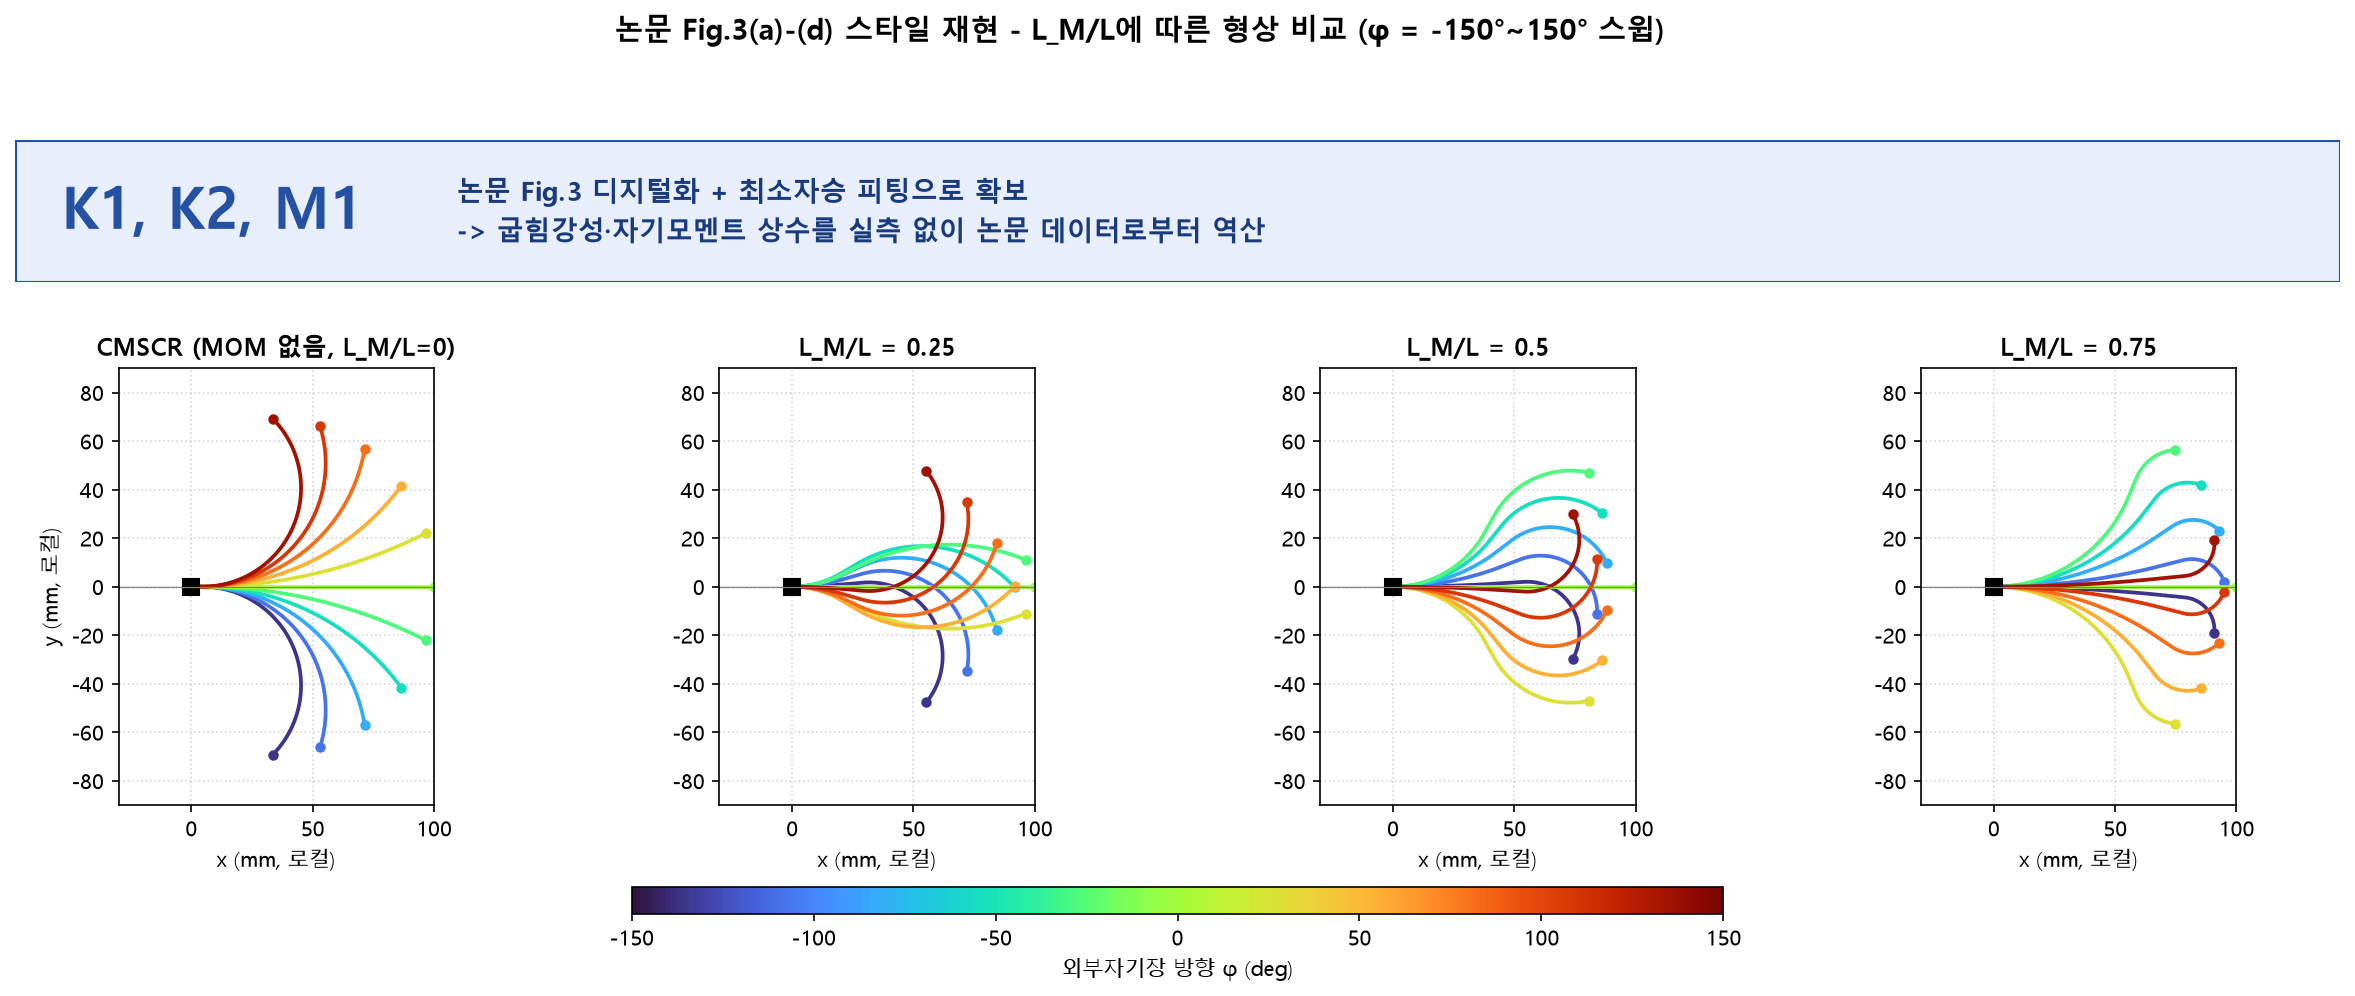
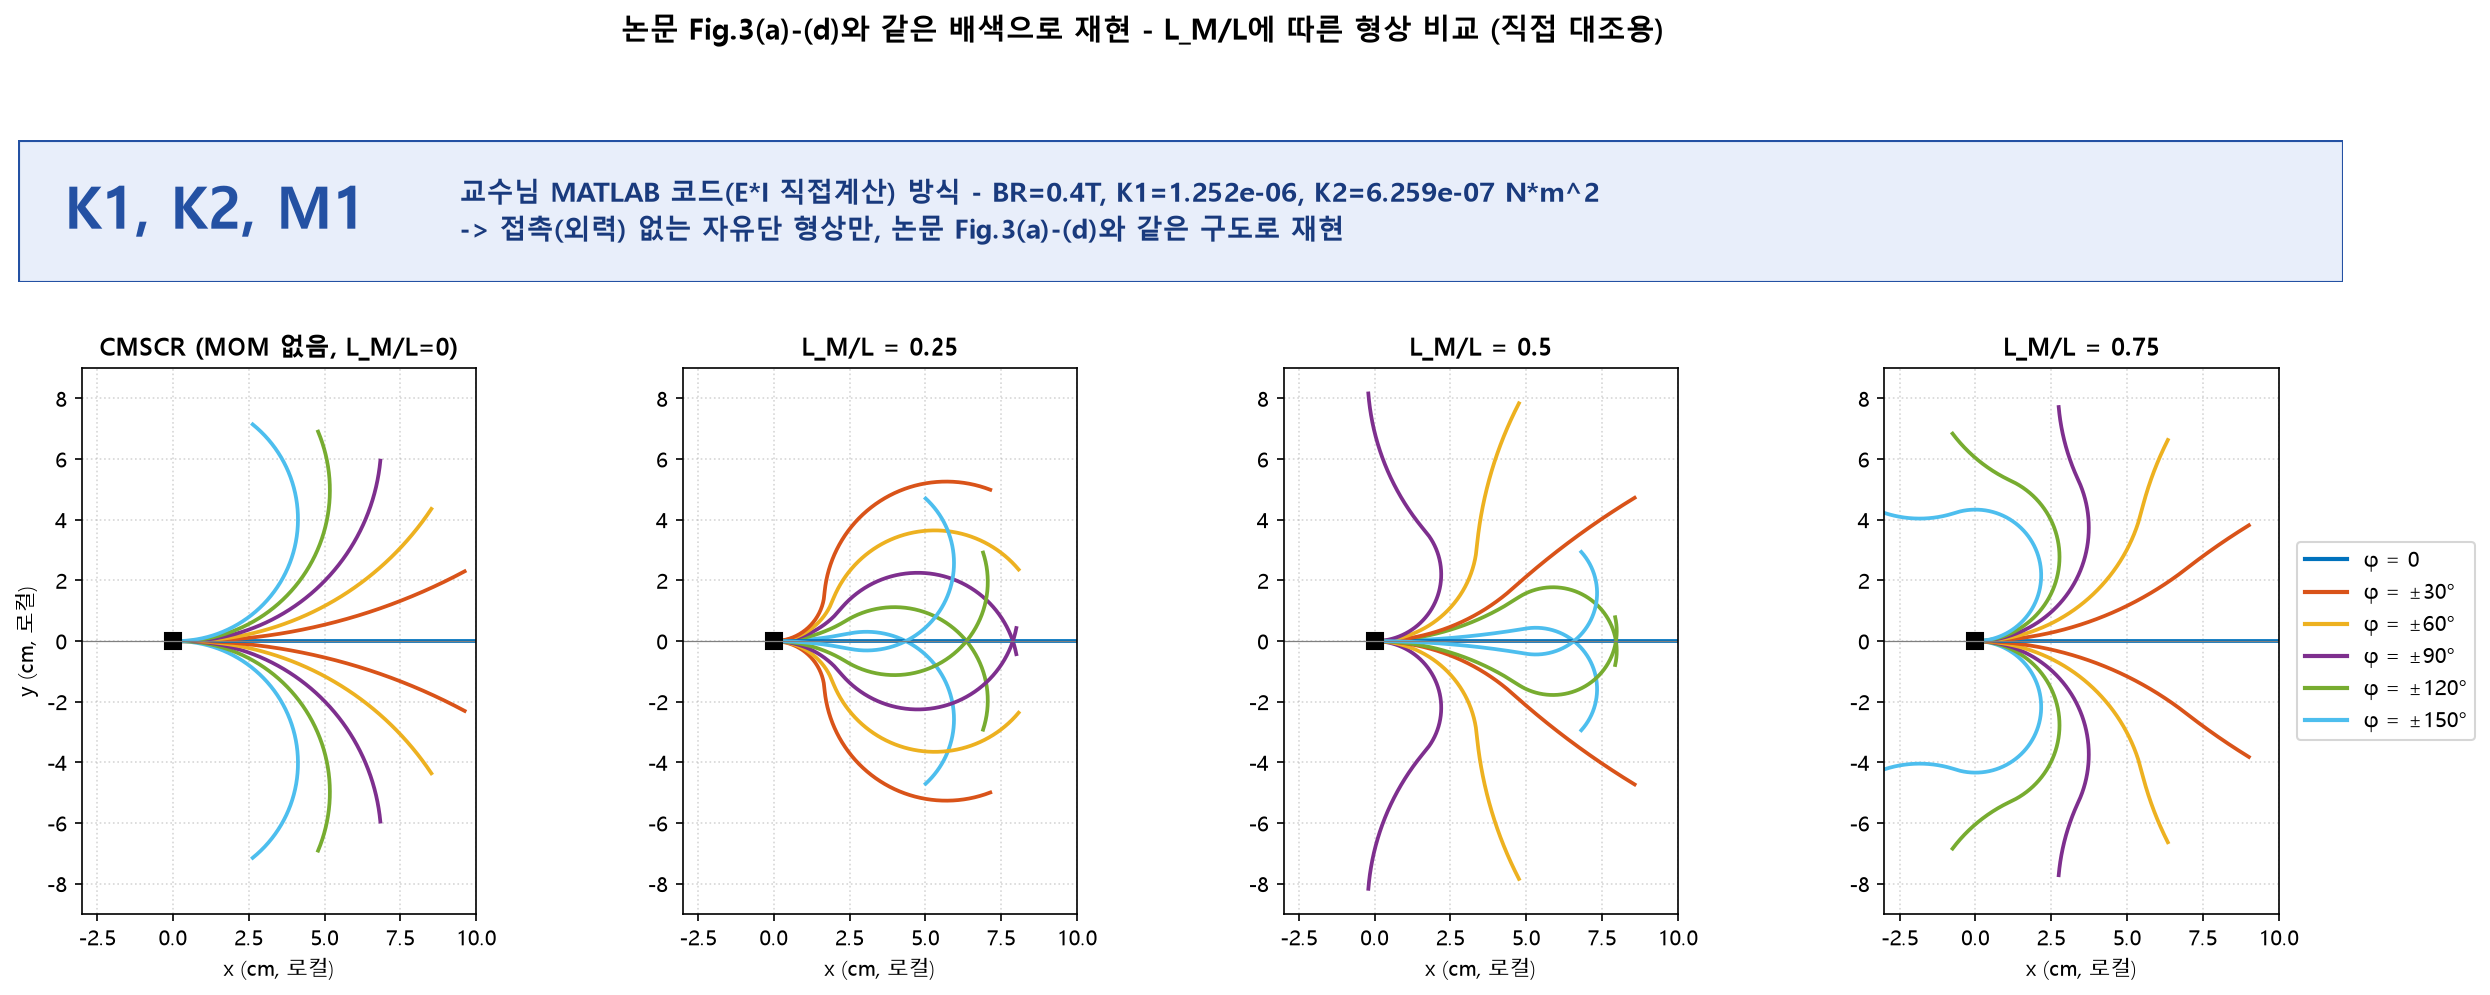
Switch force_model.py from 3-segment to 2-segment: real FEA mesh has no rigid MOM zone
Comparing solve_shape() output against the professor's MATLAB code's own plotted
output (2-segment, K1/K2 with a single transition at L_M) turned up a visible shape
mismatch. Traced it to force_model.py's K_RIGID (an 8mm fully-rigid MOM housing
segment) - checked run_contact.py and found the FEA's RIGID_MAT is only ever
assigned to the ball indenter; the tube itself uses one uniform silicone material
(material_convert.py) from base to tip, with no rigid MOM region at all. K_RIGID was
purely an analytical-model assumption that never matched what CalculiX actually
simulates.

Removed K_RIGID; solve_shape() now integrates K1 for s<L_M and K2 for s>=L_M with a
single transition point, matching both the MATLAB reference and the real mesh's
material assumption. Synced scripts/force_model/force_model.py and its
현서/scripts/force_model/ duplicate, verified diff is empty. Regenerated
plot_paper_fig3_style.py's comparison figure with matched paper/MATLAB colors
(#0072BD/#D95319/#EDB120/#7E2F8E/#77AC30/#4DBEEE per phi group) instead of a
continuous colormap, since the earlier mismatched color legend was confusing the
comparison.

Consequence: get_bent_centerline.py builds every FEA mesh's starting centerline via
solve_shape(loads=[]), so this changes the baseline geometry for all FUTURE FEA. The
existing 244 successful cases in fea_lm_phi_pos_matv2_all.json were built on the old
(now known-incorrect) 3-segment centerline and should be regenerated - flagged at
[…]

diff --git a/scripts/force_model/force_model.py b/scripts/force_model/force_model.py
@@ -43,13 +43,16 @@ MU0 = 4 * np.pi * 1e-7
 # E=850kPa, 단면 D=2mm/D2=1mm 중공관)에서 K=E*I를 직접 계산. K1(MOM 구간)은 코드의 EN=2
 # 배율을 그대로 반영(K1=2*K2). 논문 피팅값(K1=3.82e-6~2.25e-6, K2=9.89e-7~8.53e-7)보다
 # 전반적으로 작음 - 어느 쪽이 실제에 더 가까운지는 아직 실측으로 검증 안 됨.
+# 2026-08-20: K_RIGID(3구간, MOM 8mm 완전강체) 폐기 - 실제 CalculiX FEA 메쉬가 베이스~팁
+# 전체에 균일 재질만 쓰고 MOM 구간에 별도 강체 재질을 준 적이 없다는 걸 확인함(강체 재질은
+# 인덴터 공에만 씀). solve_shape()는 이제 순수 2구간(K1/K2, L_M 한 점에서 전환)으로 풂 -
+# 교수님 MATLAB 코드와도, 실제 FEA 메쉬 가정과도 일치.
 E_YOUNG = 850 * 1000  # Pa
 D_OUTER, D_INNER = 0.002, 0.001  # m, 중공관 바깥/안지름
 I_SECTION = D_OUTER**4 * np.pi / 64 - D_INNER**4 * np.pi / 64  # 단면 2차모멘트, m^4
 EN_FACTOR = 2.0  # MATLAB 코드의 EN - 구간1(MOM측)이 구간2보다 이만큼 뻣뻣하다고 가정
 K2 = E_YOUNG * I_SECTION   # N*m^2
 K1 = EN_FACTOR * K2        # N*m^2
-K_RIGID = 1e6 * max(K1, K2)
 
 BR = 0.4  # T (교수님 제공 MATLAB 코드(code(2).txt) 값과 일치시킴 - 기존 0.36T(3600G 실측값)에서 변경)
 M_MAG = BR / MU0
@@ -104,8 +107,14 @@ def solve_shape(L_M, phi_deg, loads=None, s_t=None, Fx=0.0, Fy=0.0, return_curve
     L_m = L / 1000.0
     H_M_m = H_M / 1000.0
     L_M_m = L_M / 1000.0
-    a1 = np.clip(L_M_m - H_M_m / 2, 0, L_m)
-    a2 = np.clip(L_M_m + H_M_m / 2, 0, L_m)
+
+    # 2026-08-20: 3구간(K1/K_RIGID/K2, MOM 8mm을 완전강체로 취급)에서 2구간(K1/K2, 교수님
+    # MATLAB 코드와 동일 - L_M 한 점에서 바로 전환)으로 되돌림. 이유: 실제 CalculiX FEA
+    # 메쉬가 베이스~팁 전체에 똑같은 실리콘 재질(material_convert.py의 단일 E)만 쓰고
+    # MOM 구간에 별도 강체 재질을 준 적이 없다는 걸 확인함(강체 재질 RIGID_MAT은 인덴터
+    # 공에만 씀, run_contact.py) - 즉 K_RIGID는 실제 FEA 물리와 안 맞는, 순수 해석모델만의
+    # 가정이었음. 2구간이 실제 FEA 메쉬(균일 재질) 가정과 일치함.
+    a1 = L_M_m  # 단일 전환점(옛 K1/K_RIGID 경계였던 이름을 그대로 재사용 - 아래 참조 코드 호환용)
 
     # loads를 m 단위로 변환
     loads_m = []
@@ -116,8 +125,8 @@ def solve_shape(L_M, phi_deg, loads=None, s_t=None, Fx=0.0, Fy=0.0, return_curve
             s0, s1 = ld["s_start"] / 1000.0, ld["s_end"] / 1000.0
             loads_m.append({"type": "dist", "s_start": s0, "s_end": s1, "Fx": ld["Fx"], "Fy": ld["Fy"]})
 
-    # 전체 구간을 쪼갤 breakpoint들: 0, a1, a2, L_m, 각 하중의 경계들
-    breakpoints = {0.0, a1, a2, L_m}
+    # 전체 구간을 쪼갤 breakpoint들: 0, L_M(단일 전환점), L_m, 각 하중의 경계들
+    breakpoints = {0.0, a1, L_m}
     for ld in loads_m:
         if ld["type"] == "point":
             if 0 < ld["s"] < L_m:
@@ -129,11 +138,7 @@ def solve_shape(L_M, phi_deg, loads=None, s_t=None, Fx=0.0, Fy=0.0, return_curve
     breakpoints = sorted(breakpoints)
 
     def K_of_s(s_mid):
-        if s_mid < a1:
-            return K1
-        elif s_mid < a2:
-            return K_RIGID
-        return K2
+        return K1 if s_mid < a1 else K2
 
     def q_of_s(s_mid):
         """s_mid 지점에서의 분포하중 밀도 (N/m). 여러 분포하중이 겹치면 합산."""
@@ -211,11 +216,14 @@ def solve_shape(L_M, phi_deg, loads=None, s_t=None, Fx=0.0, Fy=0.0, return_curve
                     state[4] += ld["Fx"]
                     state[5] += ld["Fy"]
 
-            # s_lo가 a1(=MOM 시작점)이면: MOM 토크 jump 되돌리기 + 위치 캡처
+            # s_lo가 a1(=L_M, MOM 위치)이면: MOM 토크 jump 되돌리기 + 위치 캡처.
+            # 2구간 모델에선 MOM이 물리적 폭을 가진 강체 구간이 아니라 s=L_M 한 점에서의
+            # 토크원(punctual torque source)이라, 옛 3구간 때처럼 H_M_m/2만큼 밀어줄 필요가
+            # 없음 - 그 지점의 적분 상태(x,y)가 곧 MOM 위치.
             if abs(s_lo - a1) < 1e-9 and theta_LM_captured is None:
                 theta_LM_captured = state[0]
-                x_LM_captured = state[1] + (H_M_m / 2) * np.cos(state[0])
-                y_LM_captured = state[2] + (H_M_m / 2) * np.sin(state[0])
+                x_LM_captured = state[1]
+                y_LM_captured = state[2]
                 state[3] = state[3] + tau1(state[0])
 
         curve = (np.array(curve_s), np.array(curve_x), np.array(curve_y), np.array(curve_theta)) if collect_curve else None

diff --git a/현서/scripts/force_model/force_model.py b/현서/scripts/force_model/force_model.py
@@ -43,13 +43,16 @@ MU0 = 4 * np.pi * 1e-7
 # E=850kPa, 단면 D=2mm/D2=1mm 중공관)에서 K=E*I를 직접 계산. K1(MOM 구간)은 코드의 EN=2
 # 배율을 그대로 반영(K1=2*K2). 논문 피팅값(K1=3.82e-6~2.25e-6, K2=9.89e-7~8.53e-7)보다
 # 전반적으로 작음 - 어느 쪽이 실제에 더 가까운지는 아직 실측으로 검증 안 됨.
+# 2026-08-20: K_RIGID(3구간, MOM 8mm 완전강체) 폐기 - 실제 CalculiX FEA 메쉬가 베이스~팁
+# 전체에 균일 재질만 쓰고 MOM 구간에 별도 강체 재질을 준 적이 없다는 걸 확인함(강체 재질은
+# 인덴터 공에만 씀). solve_shape()는 이제 순수 2구간(K1/K2, L_M 한 점에서 전환)으로 풂 -
+# 교수님 MATLAB 코드와도, 실제 FEA 메쉬 가정과도 일치.
 E_YOUNG = 850 * 1000  # Pa
 D_OUTER, D_INNER = 0.002, 0.001  # m, 중공관 바깥/안지름
 I_SECTION = D_OUTER**4 * np.pi / 64 - D_INNER**4 * np.pi / 64  # 단면 2차모멘트, m^4
 EN_FACTOR = 2.0  # MATLAB 코드의 EN - 구간1(MOM측)이 구간2보다 이만큼 뻣뻣하다고 가정
 K2 = E_YOUNG * I_SECTION   # N*m^2
 K1 = EN_FACTOR * K2        # N*m^2
-K_RIGID = 1e6 * max(K1, K2)
 
 BR = 0.4  # T (교수님 제공 MATLAB 코드(code(2).txt) 값과 일치시킴 - 기존 0.36T(3600G 실측값)에서 변경)
 M_MAG = BR / MU0
@@ -104,8 +107,14 @@ def solve_shape(L_M, phi_deg, loads=None, s_t=None, Fx=0.0, Fy=0.0, return_curve
     L_m = L / 1000.0
     H_M_m = H_M / 1000.0
     L_M_m = L_M / 1000.0
-    a1 = np.clip(L_M_m - H_M_m / 2, 0, L_m)
-    a2 = np.clip(L_M_m + H_M_m / 2, 0, L_m)
+
+    # 2026-08-20: 3구간(K1/K_RIGID/K2, MOM 8mm을 완전강체로 취급)에서 2구간(K1/K2, 교수님
+    # MATLAB 코드와 동일 - L_M 한 점에서 바로 전환)으로 되돌림. 이유: 실제 CalculiX FEA
+    # 메쉬가 베이스~팁 전체에 똑같은 실리콘 재질(material_convert.py의 단일 E)만 쓰고
+    # MOM 구간에 별도 강체 재질을 준 적이 없다는 걸 확인함(강체 재질 RIGID_MAT은 인덴터
+    # 공에만 씀, run_contact.py) - 즉 K_RIGID는 실제 FEA 물리와 안 맞는, 순수 해석모델만의
+    # 가정이었음. 2구간이 실제 FEA 메쉬(균일 재질) 가정과 일치함.
+    a1 = L_M_m  # 단일 전환점(옛 K1/K_RIGID 경계였던 이름을 그대로 재사용 - 아래 참조 코드 호환용)
 
     # loads를 m 단위로 변환
     loads_m = []
@@ -116,8 +125,8 @@ def solve_shape(L_M, phi_deg, loads=None, s_t=None, Fx=0.0, Fy=0.0, return_curve
             s0, s1 = ld["s_start"] / 1000.0, ld["s_end"] / 1000.0
             loads_m.append({"type": "dist", "s_start": s0, "s_end": s1, "Fx": ld["Fx"], "Fy": ld["Fy"]})
 
-    # 전체 구간을 쪼갤 breakpoint들: 0, a1, a2, L_m, 각 하중의 경계들
-    breakpoints = {0.0, a1, a2, L_m}
+    # 전체 구간을 쪼갤 breakpoint들: 0, L_M(단일 전환점), L_m, 각 하중의 경계들
+    breakpoints = {0.0, a1, L_m}
     for ld in loads_m:
         if ld["type"] == "point":
             if 0 < ld["s"] < L_m:
@@ -129,11 +138,7 @@ def solve_shape(L_M, phi_deg, loads=None, s_t=None, Fx=0.0, Fy=0.0, return_curve
     breakpoints = sorted(breakpoints)
 
     def K_of_s(s_mid):
-        if s_mid < a1:
-            return K1
-        elif s_mid < a2:
-            return K_RIGID
-        return K2
+        return K1 if s_mid < a1 else K2
 
     def q_of_s(s_mid):
         """s_mid 지점에서의 분포하중 밀도 (N/m). 여러 분포하중이 겹치면 합산."""
@@ -211,11 +216,14 @@ def solve_shape(L_M, phi_deg, loads=None, s_t=None, Fx=0.0, Fy=0.0, return_curve
                     state[4] += ld["Fx"]
                     state[5] += ld["Fy"]
 
-            # s_lo가 a1(=MOM 시작점)이면: MOM 토크 jump 되돌리기 + 위치 캡처
+            # s_lo가 a1(=L_M, MOM 위치)이면: MOM 토크 jump 되돌리기 + 위치 캡처.
+            # 2구간 모델에선 MOM이 물리적 폭을 가진 강체 구간이 아니라 s=L_M 한 점에서의
+            # 토크원(punctual torque source)이라, 옛 3구간 때처럼 H_M_m/2만큼 밀어줄 필요가
+            # 없음 - 그 지점의 적분 상태(x,y)가 곧 MOM 위치.
             if abs(s_lo - a1) < 1e-9 and theta_LM_captured is None:
                 theta_LM_captured = state[0]
-                x_LM_captured = state[1] + (H_M_m / 2) * np.cos(state[0])
-                y_LM_captured = state[2] + (H_M_m / 2) * np.sin(state[0])
+                x_LM_captured = state[1]
+                y_LM_captured = state[2]
                 state[3] = state[3] + tau1(state[0])
 
         curve = (np.array(curve_s), np.array(curve_x), np.array(curve_y), np.array(curve_theta)) if collect_curve else None

diff --git a/scripts/force_model/plot_paper_fig3_style.py b/scripts/force_model/plot_paper_fig3_style.py
@@ -53,45 +53,48 @@ hero.add_patch(plt.Rectangle((0, 0), 1, 1, transform=hero.transAxes, facecolor="
                               edgecolor="#2451A3", linewidth=1.5))
 hero.text(0.02, 0.5, "K1, K2, M1", fontsize=28, fontweight="bold", color="#2451A3",
           transform=hero.transAxes, va="center", ha="left")
-hero.text(0.19, 0.5, "논문 Fig.3 디지털화 + 최소자승 피팅으로 확보\n"
-                     "-> 굽힘강성·자기모멘트 상수를 실측 없이 논문 데이터로부터 역산",
+hero.text(0.19, 0.5, f"교수님 MATLAB 코드(E*I 직접계산) 방식 - BR={fm.BR}T, K1={fm.K1:.3e}, K2={fm.K2:.3e} N*m^2\n"
+                     "-> 접촉(외력) 없는 자유단 형상만, 논문 Fig.3(a)-(d)와 같은 구도로 재현",
           fontsize=13, fontweight="bold", color="#193A7D", transform=hero.transAxes,
           va="center", ha="left", linespacing=1.4)
 
 axes = [fig.add_subplot(gs[1, i]) for i in range(4)]
 for a in axes[1:]:
     a.sharey(axes[0])
-colors = plt.cm.turbo(np.linspace(0.05, 0.95, len(PHI_LIST)))
+# 2026-08-19: 논문 Fig.3(a)-(d)와 직접 비교하려고 turbo 연속컬러맵 대신 논문(=MATLAB 기본
+# 팔레트)과 완전히 같은 6색 고정 배색으로 교체 - |phi| 그룹별 1색, +/-는 같은 색(논문처럼).
+# 전엔 연속 turbo라 "빨강"이 서로 다른 각도를 가리켜서 논문과 나란히 비교하면 헷갈렸음.
+PHI_COLORS = {0: "#0072BD", 30: "#D95319", 60: "#EDB120", 90: "#7E2F8E", 120: "#77AC30", 150: "#4DBEEE"}
 
 for ax, ratio in zip(axes, LM_RATIOS):
     L_M = max(ratio * fm.L, 0.5)  # L_M=0은 특이점이라 0.5mm로 근사(사실상 MOM 없음/CMSCR)
     trace = continuation_sweep(L_M, PHI_LIST)
-    for phi_deg, c in zip(PHI_LIST, colors):
+    for phi_deg in PHI_LIST:
         if phi_deg not in trace:
             continue
+        c = PHI_COLORS[abs(phi_deg)]
         hint = trace[phi_deg]["theta_L_deg"]
         r = fm.solve_shape(L_M=L_M, phi_deg=phi_deg, loads=[], return_curve=True,
                             theta_L_hint_deg=hint)
-        ax.plot(r["curve_x_mm"], r["curve_y_mm"], color=c, linewidth=1.8)
-        ax.plot(r["x_L"], r["y_L"], "o", color=c, markersize=4)
+        ax.plot(r["curve_x_mm"] / 10, r["curve_y_mm"] / 10, color=c, linewidth=1.8)
     ax.plot(0, 0, "ks", markersize=8)
     title = "CMSCR (MOM 없음, L_M/L=0)" if ratio == 0 else f"L_M/L = {ratio}"
     ax.set_title(title, fontweight="bold", fontsize=12)
-    ax.set_xlabel("x (mm, 로컬)")
-    ax.set_xlim(-30, 100)
-    ax.set_ylim(-90, 90)
+    ax.set_xlabel("x (cm, 로컬)")
+    ax.set_xlim(-3, 10)
+    ax.set_ylim(-9, 9)
     ax.set_aspect("equal")
     ax.grid(True, linestyle=":", alpha=0.5)
     ax.axhline(0, color="gray", linewidth=0.6)
 
-axes[0].set_ylabel("y (mm, 로컬)")
+axes[0].set_ylabel("y (cm, 로컬)")
 
-# 컬러바 대신 범례용 텍스트
-sm = plt.cm.ScalarMappable(cmap="turbo", norm=plt.Normalize(vmin=min(PHI_LIST), vmax=max(PHI_LIST)))
-cbar = fig.colorbar(sm, ax=axes, orientation="horizontal", fraction=0.05, pad=0.15, aspect=40)
-cbar.set_label("외부자기장 방향 φ (deg)")
+from matplotlib.lines import Line2D
+legend_handles = [Line2D([0], [0], color=PHI_COLORS[abs(p)], lw=2, label=f"φ = ±{p}°" if p else "φ = 0")
+                  for p in [0, 30, 60, 90, 120, 150]]
+axes[-1].legend(handles=legend_handles, loc="center left", bbox_to_anchor=(1.02, 0.5), fontsize=10)
 
-fig.suptitle("논문 Fig.3(a)-(d) 스타일 재현 - L_M/L에 따른 형상 비교 (φ = -150°~150° 스윕)",
+fig.suptitle("논문 Fig.3(a)-(d)와 같은 배색으로 재현 - L_M/L에 따른 형상 비교 (직접 대조용)",
              fontweight="bold", fontsize=14, y=1.005)
 
 out_path = "../../data/force_model/paper_fig3_style.png"

diff --git a/PROJECT_STATUS.md b/PROJECT_STATUS.md
@@ -1,7 +1,43 @@
-# 프로젝트 현황 (인수인계, 2026-08-19 최종 업데이트)
+# 프로젝트 현황 (인수인계, 2026-08-20 최종 업데이트)
 
 이 문서는 다른 컴퓨터/세션에서 새로 시작하는 Claude에게 상황을 알려주기 위한 것입니다.
 **새 세션에서 클로드에게 할 말**: "PROJECT_STATUS.md 읽고 여기서부터 이어서 진행해줘"
+
+## 🚨 2026-08-20 최우선 - force_model.py 3구간→2구간 전환, FEA 재생성 필요
+
+**무엇을 왜 바꿨나**: `scripts/force_model/force_model.py`(+ 동기화 사본
+`현서/scripts/force_model/force_model.py`)의 `solve_shape()`가 지금까지 K1(베이스~MOM)/
+**K_RIGID**(MOM 8mm, 완전강체)/K2(MOM~팁) 3구간이었는데, **K_RIGID를 없애고 순수 2구간
+(K1/K2, L_M 한 점에서 바로 전환 - 교수님 MATLAB 코드와 동일 구조)으로 바꿈**.
+
+**결정적 근거**: 실제 CalculiX FEA 메쉬를 확인했더니, **강체 재질(`RIGID_MAT`)은 인덴터
+공(ball)에만 쓰이고 있었고, 튜브는 베이스~팁 전체가 `material_convert.py`의 균일한 실리콘
+재질 하나뿐**이었음(`run_contact.py` 확인). 즉 K_RIGID는 실제 FEA 물리에 존재한 적이
+없는, **해석모델(force_model.py)만의 잘못된 가정**이었음. 사용자가 논문 Fig.3 스타일
+그래프(`scripts/force_model/plot_paper_fig3_style.py`)로 교수님 MATLAB 코드 출력이랑 직접
+비교하다가 형상이 눈에 띄게 다른 걸 발견 → 원인 추적 과정에서 이 사실이 드러남.
+
+**⚠ 영향 범위 - 왜 이게 "재현 그래프 하나"로 안 끝나는지**:
+`get_bent_centerline.py`가 `fm.solve_shape(loads=[])`로 **FEA 메쉬를 만들 굽은 중심선
+자체**를 계산함 - 즉 이 변경으로 **모든 새 FEA는 자동으로 새(2구간) 중심선 기준으로
+생성됨**. 문제는 **지금까지 쌓은 FEA 244개(`fea_lm_phi_pos_matv2_all.json`)가 전부 옛
+(3구간, 실제 메쉬와 안 맞는) 중심선으로 만들어졌다는 것** - K1/K2/BR 상수 불일치 때
+겪었던 것과 같은 종류의 "형상 계산 따로, 실제 메쉬 따로" 문제가 다시 생김. **사용자가
+"다른 컴퓨터에 2구간으로 FEA 다시 돌리자"고 명시적으로 결정함.**
+
+**할 일**:
+1. `git pull`로 이 커밋(force_model.py 2구간 전환) 받기 - 코드는 이미 다 고쳐져 있음,
+   추가로 고칠 파일 없음(`get_bent_centerline.py` 등은 `fm.solve_shape()`를 그대로 호출할
+   뿐이라 자동으로 새 모델 적용됨).
+2. **`fea_lm_phi_pos_matv2_all.json`의 244개를 전부 재생성**할 것을 권장 - 옛 중심선
+   기준이라 새 모델과 안 맞음. 재생성 방법: 지금까지 성공했던 케이스 목록(L_M,phi,beta,s
+   조합)을 이 파일에서 뽑아서 `sweep_lm_phi_position_matv2_worker.py`로 그대로 다시
+   돌리면 됨(같은 조합, 새 코드 기준이라 자동으로 새 중심선 사용). 시간이 부담되면 최소한
+   **지금 진행 중이던 계획(1-C STABILIZE 확장, 2번 L_M 조밀화)은 전부 이 새 코드 기준으로
+   처음부터 다시 돌릴 것** - 옛 코드 기준 데이터를 새로 추가하면 안 됨.
+3. 재생성 끝나면 `_diag_surrogate_only.py`로 tip_ux/tip_uy 홀드아웃 R² 다시 확인(2026-08-19
+   막판 체크포인트: 244개 기준 tip_ux=0.555, **tip_uy=0.877**(목표 0.8 돌파) - 2구간 전환
+   후 이 숫자가 어떻게 바뀌는지가 중요한 참고점).
 
 ## 📊 지금까지 결과값 정리 (한눈에 보기)
 
